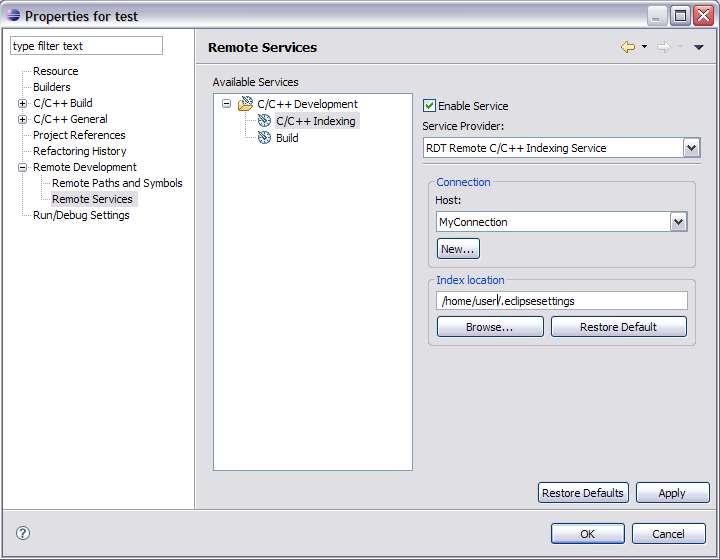
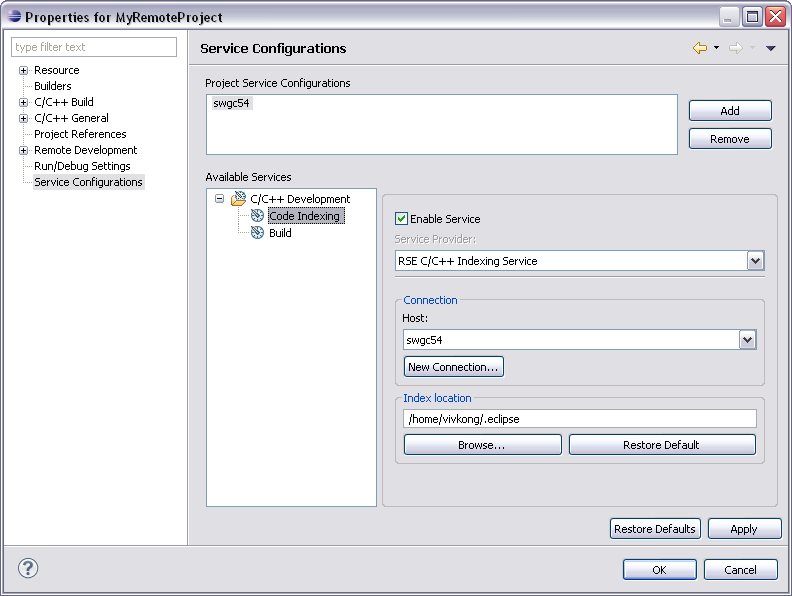
update RDT docs

diff --git a/org.eclipse.ptp.rdt.doc.user/html/reference/remote_services.html b/org.eclipse.ptp.rdt.doc.user/html/reference/remote_services.html
@@ -8,9 +8,32 @@
 
 <body>
 <h1>Service Configurations Properties Page</h1>
-<h3>C/C++ Indexing Service</h3>
+<h3>C/C++ Development > Code Indexing Service</h3>
 <img src="../../images/properties_service_indexing.png" alt="Remote Services Properties Page - Indexing">
 <br><br><br>
+
+<table border="1" cellpadding="5" cellspacing="0" style="border-collapse: collapse" bordercolor="#999999">
+  <tr>
+    <th><strong>Name</strong></th>
+    <th><strong>Function</strong></th>
+  </tr>
+  <tr>
+    <td>Project Service Configurations</td>
+    <td>Lists the service configurations associated with this project.  Each service configuration defines a set of remote functionalities.</td>
+  </tr>
+  <tr>
+    <td>Add</td>
+    <td>Add a service configuration.        
+    </td>
+  </tr>
+  <tr>
+    <td>Remove</td>
+    <td>Remove a service configuration.
+    </td>
+  </tr>
+</table>
+
+<br><br>
 <table border="1" cellpadding="5" cellspacing="0" style="border-collapse: collapse" bordercolor="#999999">
   <tr>
     <th><strong>Name</strong></th>
@@ -40,6 +63,7 @@
 </table>
 <br>
 <br>
+<h3>C/C++ Development > Build Service</h3>
 <img src="../../images/properties_service_build.png" alt="Remote Services Properties Page - Build">
 <br><br><br>
 <table border="1" cellpadding="5" cellspacing="0" style="border-collapse: collapse" bordercolor="#999999">

diff --git a/org.eclipse.ptp.rdt.doc.user/html/toc.html b/org.eclipse.ptp.rdt.doc.user/html/toc.html
@@ -72,7 +72,7 @@
 <ul>
 	<li><a href="reference/remote_c_editor.html">Remote C/C++ Editor</a></li>
 	<li><a href="reference/remote_call_hierarchy.html">Remote Call Hierarchy</a></li>
-	<li><a href="reference/remote_type_heirarchy.html">Remote Type Hierarchy</a></li>
+	<li><a href="reference/remote_type_hierarchy.html">Remote Type Hierarchy</a></li>
 	<li><a href="reference/outline_view.html">Outline View</a></li>
 	</ul>
 <li><a href="reference/remote_c_search.html">Remote C/C++ Search</a></li>
@@ -90,6 +90,6 @@
 <li><a href="reference/remote_services.html">Remote Services Property Page</a></li>
 
 
-	<li><a href="notices.html">Legal</a></li>
+	<li><a href="../notices.html">Legal</a></li>
 </ul>
 </html>

diff --git a/org.eclipse.ptp.rdt.doc.user/html/reference/console_view.htm b/org.eclipse.ptp.rdt.doc.user/html/reference/console_view.htm
@@ -21,7 +21,7 @@ The output console shows several different kinds of text, each in a different co
 <li>Standard error</li>
 <li>Standard input</li>
 </ul>
-<p>You can choose the different colors for these kinds of text on the <a href="cdt_u_console_pref.htm">Console</a> preferences panel.
+<p>You can choose the different colors for these kinds of text on the <a href="PLUGINS_ROOT/org.eclipse.cdt.doc.user/reference/cdt_u_console_pref.htm">Console</a> preferences panel.
 </p>
 
 <h2>Console view toolbar</h2>

diff --git a/org.eclipse.ptp.rdt.doc.user/notices.html b/org.eclipse.ptp.rdt.doc.user/notices.html
@@ -12,7 +12,7 @@
 <a name="Notices"></a>Notices</h3>
 <p>
 The material in this guide is Copyright (c) IBM Corporation and others
-2007, 2009.
+2007, 2010.
 </p>
 <p>
 <a href="about.html">Terms and conditions regarding the use of this
